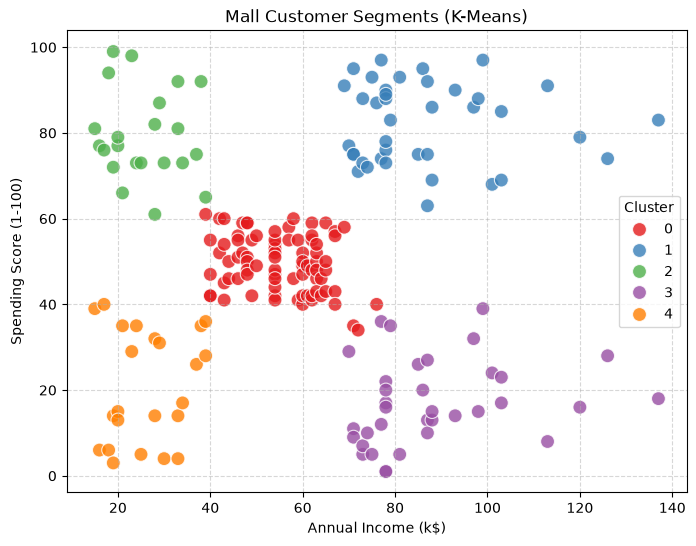
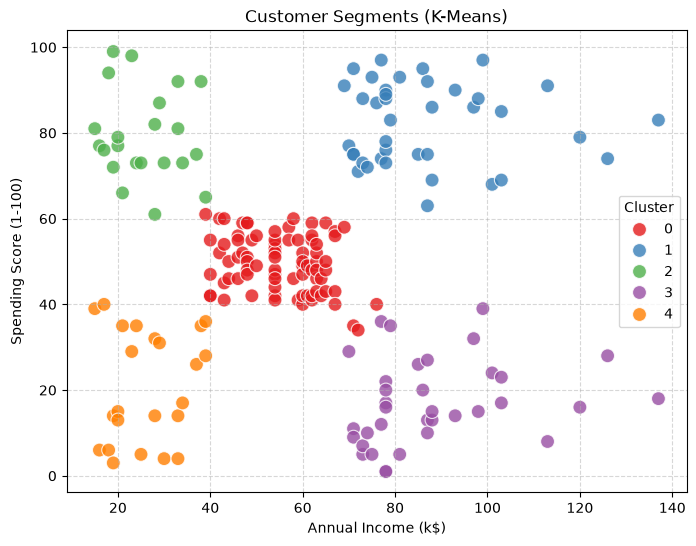
Update file paths for Customers.csv and update currency column headers

Changed region(s): [[0.3319, 0.0, 0.7543, 0.0623]]

diff --git a/src/segmentation.py b/src/segmentation.py
@@ -8,8 +8,8 @@ from sklearn.cluster import KMeans
 BASE_DIR = os.path.dirname(os.path.dirname(os.path.abspath(__file__)))
 
 # Define safe absolute paths
-data_path = os.path.join(BASE_DIR, "data", "Mall_Customers.csv")
-output_csv_path = os.path.join(BASE_DIR, "data", "Mall_Customers_Clustered.csv")
+data_path = os.path.join(BASE_DIR, "data", "Customers.csv")
+output_csv_path = os.path.join(BASE_DIR, "data", "Customers_Clustered.csv")
 output_img_path = os.path.join(BASE_DIR, "images", "customer_segments.png")
 
 # 1. Load the dataset
@@ -24,7 +24,7 @@ df['Cluster'] = kmeans.fit_predict(X)
 
 # 4. Save the clustered data
 df.to_csv(output_csv_path, index=False)
-print("Clustered data saved to data/Mall_Customers_Clustered.csv")
+print("Clustered data saved to data/Customers_Clustered.csv")
 
 # 5. Plot and save the customer segments visualization
 plt.figure(figsize=(8, 6))
@@ -37,7 +37,7 @@ sns.scatterplot(
     s=100, 
     alpha=0.8
 )
-plt.title('Mall Customer Segments (K-Means)')
+plt.title('Customer Segments (K-Means)')
 plt.xlabel('Annual Income (k$)')
 plt.ylabel('Spending Score (1-100)')
 plt.legend(title='Cluster')

diff --git a/src/cluster_summary.py b/src/cluster_summary.py
@@ -3,7 +3,7 @@ import pandas as pd
 
 # Get the project root directory
 BASE_DIR = os.path.dirname(os.path.dirname(os.path.abspath(__file__)))
-file_path = os.path.join(BASE_DIR, "data", "Mall_Customers_Clustered.csv")
+file_path = os.path.join(BASE_DIR, "data", "Customers_Clustered.csv")
 
 # Load the clustered dataset
 df = pd.read_csv(file_path)

diff --git a/src/explore.py b/src/explore.py
@@ -1,7 +1,7 @@
 import pandas as pd
 
 # Load the dataset from the data folder
-df = pd.read_csv("data/Mall_Customers.csv")
+df = pd.read_csv("data/Customers.csv")
 
 # Display basic information and first few rows
 print("Dataset Shape:", df.shape)
